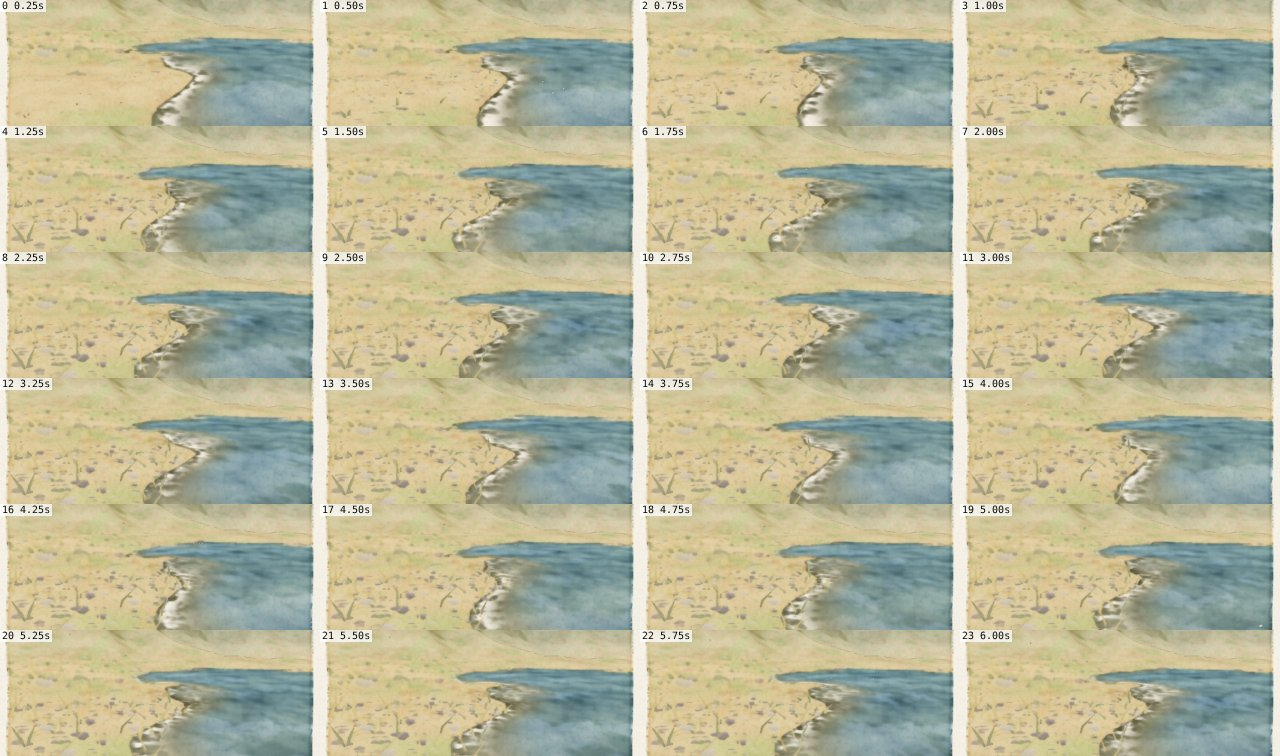
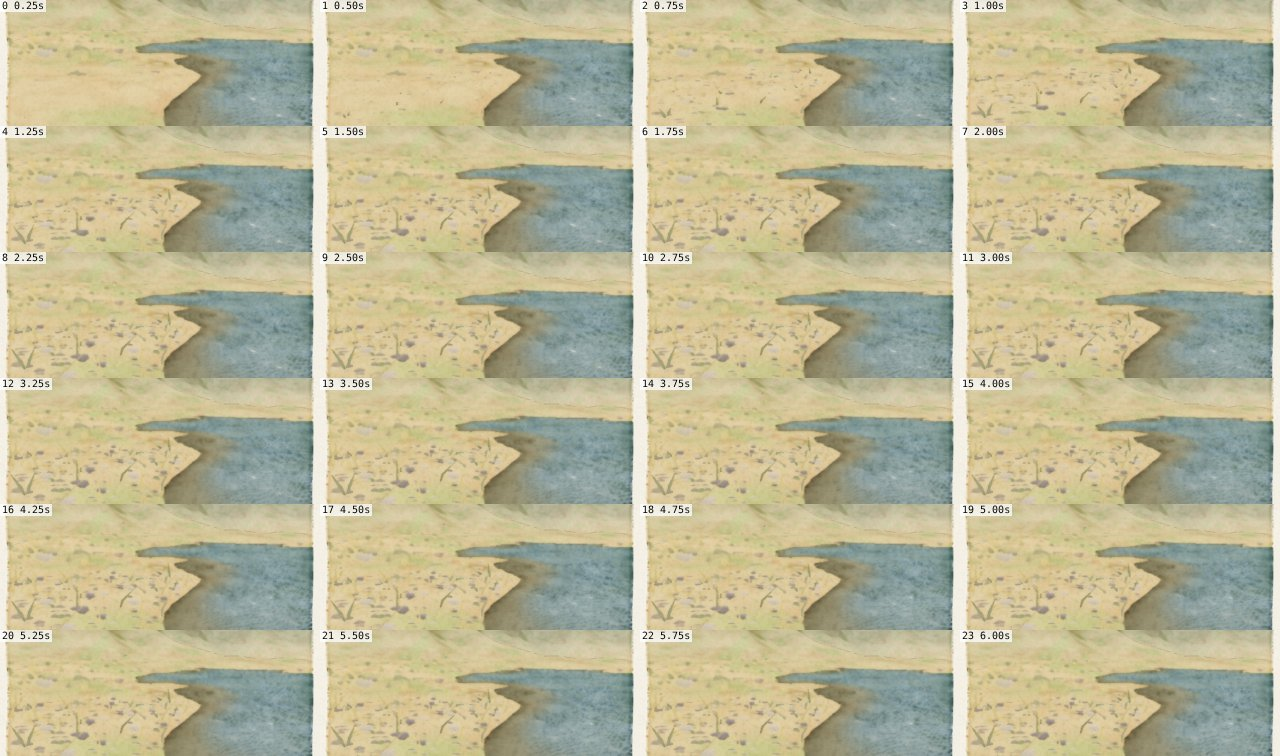
[physics] P16.3 the Moon run at the boulder (ruled: physical, mine). The check was my body model's face brace (P13 legCatch: the legs at the end of their fold, the face takes what the feet cannot carry up it); PILOT's wrapper passes the command through. Measured on PILOT's profile: within the standi

diff --git a/src/physics/explorer.js b/src/physics/explorer.js
@@ -62,6 +62,20 @@ export const EXPLORER_BODY = Object.freeze({
                           // more than that tears the grip off and the body flies
   crestFilter: 0.15,      // (retired in P9: the stroke of the legs does this now; kept, unused)
   crestLaunch: true,      // leave the ground when it falls away faster than gravity (low-g bounding)
+  // THE WAY AHEAD (P16). A face the hips must climb (its top more than the legs' stroke over the ground here, within a
+  // clamber) is crossed in contact only at the pace the hips can be raised onto it and brought down beyond it: within the
+  // 0.3 m measure (never thrown up, the feet never off the far side) about aheadPace / (rise - legFold)^aheadExp (m): on
+  // PILOT's profile (a 1.3 m dome) the fastest pace that needs no brace at the face is 4, 3 and 2.25 to 2.5 m/s for 0.8,
+  // 1.0 and 1.2 m, the same on the Moon, Mars and Earth (the hold's pull, not gravity, sets it): 1.9 / x^0.75 within 5 %,
+  // and the law is taken 8 % under that. A runner sees it coming and sheds the rest with its soles (and the
+  // suit's assist), within the grip it has, from as far as that takes. Until P16 the face itself took it: a run on the
+  // Moon was checked from 5.4 to 2.1 m/s in 0.125 s, by contact. Two samples a step while running (aheadFrom).
+  aheadFrom: 2.5,         // m/s over the ground from which the walker reads the way ahead
+  aheadMax: 12,           // m: the farthest it reads
+  aheadSpan: 1.2,         // m: a face is a rise of more than the stroke within this run (a hill under 60 % is not)
+  aheadMargin: 0.8,       // share of the grip (and the assist) the walker plans to brake with
+  aheadPace: 1.75,        // m/s at a rise of a metre over the fold, in that law (3.85, 2.75, 2.15 m/s for 0.8, 1.0, 1.2 m)
+  aheadExp: 0.75,
   // GAIT (P13). The stride-averaged body above (st.p, st.v: the path, the pace, the stops) is carried by
   // legs that step. Within the stride the hips ride the mechanics of a legged walker:
   //   a WALK is an inverted pendulum: the hips vault over the stance foot on a leg that rolls over the
@@ -136,6 +150,8 @@ export const EXPLORER_BODY_STATE = () => ({
   clamberT: 0,            // s left of looking ahead after the legs last worked
   grip: 0,                // 1 while the limbs hold a feature (taken at a convex edge, kept until standing again)
   paceCap: 1e9,           // m/s: the pace the walker holds so its feet can follow the ground ahead
+  paceAhead: 1e9,         // (P16) m/s: the pace it holds now to meet a face it has seen ahead at the pace it can climb it
+  ahead: null,            // (P16) that face: { x, y, z (unit), rise (m), vc (m/s) } or null
   brace: 0,               // m/s of forward speed lost this step against a face or to a hold
   support: 0,             // m/s^2 of normal support from the ground (0 when floating or airborne)
   impact: 0,              // m/s of the last landing (normal speed), set on the landing step
@@ -195,6 +211,38 @@ function groundAhead(env, px, py, pz, hx, hy, hz, dist) {
   _dir2.x = x / r; _dir2.y = y / r; _dir2.z = z / r;
   return env.sample(_dir2).radius;
 }
+// (P16) THE WAY AHEAD. Running, read the ground `d` ahead along the path (and aheadSpan short of it), d far enough for the
+// soles to brake from this pace; a face the hips must climb (a rise of more than the stroke within aheadSpan, and more
+// than the stroke over the line of the ground being run on, within a clamber) is remembered; the pace held is what still
+// meets it at the pace it can be crossed in contact. aB: the braking the grip and the assist can give (m/s^2).
+function wayAhead(B, env, px, py, pz, h1, sx, sy, sz, vh, gE, aB, T) {
+  const stroke = T.legFold + T.legReach, ab = Math.max(0.3, T.aheadMargin * aB);
+  const r = Math.hypot(px, py, pz) || 1, ux = px / r, uy = py / r, uz = pz / r;
+  let hx = sx, hy = sy, hz = sz; const hu = hx * ux + hy * uy + hz * uz; hx -= hu * ux; hy -= hu * uy; hz -= hu * uz;
+  const hl = Math.hypot(hx, hy, hz);
+  if (!(hl > 1e-9) || !(gE > 0)) { B.paceAhead = 1e9; B.ahead = null; return; }
+  hx /= hl; hy /= hl; hz /= hl;
+  // the face remembered: still ahead and on the path?
+  let A = B.ahead;
+  if (A) { const dx = A.x - ux, dy = A.y - uy, dz = A.z - uz, d = (dx * hx + dy * hy + dz * hz) * r, side = Math.hypot(dx * r - d * hx, dy * r - d * hy, dz * r - d * hz); A.d = d; if (d < -0.5 || side > 1.0) A = B.ahead = null; }
+  // read the way: the far point, and aheadSpan short of it
+  // (read only while running; a face already seen is kept, slow or not, until it is passed or off the path)
+  const d = Math.min(T.aheadMax, vh * vh / (2 * ab)) + T.look;
+  if (vh > T.aheadFrom && d > T.aheadSpan + 0.5) {
+    const hN = groundAhead(env, px, py, pz, hx, hy, hz, d - T.aheadSpan), hF = groundAhead(env, px, py, pz, hx, hy, hz, d);   // (_dir2: the far point)
+    const slope = B.trend > 0 ? B.trend / vh : 0, rise = hF - h1 - slope * d;
+    if (hF - hN > stroke && rise > stroke && hF - h1 <= T.clamber) {
+      const vc = Math.max(0.5, T.aheadPace / Math.pow(Math.max(0.05, rise - T.legFold), T.aheadExp));
+      const cost = (q) => Math.sqrt(q.vc * q.vc + 2 * ab * Math.max(0, q.d - T.look));
+      const N = { x: _dir2.x, y: _dir2.y, z: _dir2.z, rise, vc, d };
+      // (the same face read again a little further on: it is as high as its highest reading; another face: the dearer)
+      if (A && Math.abs(N.d - A.d) < T.aheadSpan) { if (N.vc < A.vc) { A.vc = N.vc; A.rise = N.rise; } }
+      else if (!A || cost(N) < cost(A)) A = B.ahead = N;
+    }
+  }
+  B.paceAhead = A ? Math.sqrt(A.vc * A.vc + 2 * ab * Math.max(0, A.d - T.look)) : 1e9;
+}
+
 // Is there something for the limbs to hold? Yes when the ground `look` ahead (radius hD) lies well below
 // the line the hips are moving on (c: hips less a leg, w: their vertical speed, vh: their speed over the
 // ground): a convex feature at the scale of a limb; and when that ground is within a clamber of the feet.
@@ -491,7 +539,7 @@ function stepOnce(st, cmd, dt, env, T) {
       tx = qx - ux * k; ty = qy - uy * k; tz = qz - uz * k;
       const tl = Math.hypot(tx, ty, tz);
       // LEGS, 2: clambering, the walker holds the pace at which its feet can follow the ground ahead
-      if (tl > 1e-9) { const m = Math.min(qlen, B.paceCap) / tl; tx *= m; ty *= m; tz *= m; }
+      if (tl > 1e-9) { const m = Math.min(qlen, B.paceCap, B.paceAhead >= 0 ? B.paceAhead : 1e9) / tl; tx *= m; ty *= m; tz *= m; }
     }
     // what the legs would like to do: close the velocity error and cancel the outside loads
     let fx = (tx - sx) / T.response - ex, fy = (ty - sy) / T.response - ey, fz = (tz - sz) / T.response - ez;
@@ -672,7 +720,7 @@ function stepOnce(st, cmd, dt, env, T) {
       const rr = Math.max(h1, c1 - reach), vv1 = w1 - su;
       px = _dir.x * rr; py = _dir.y * rr; pz = _dir.z * rr;
       vx = sx + vv1 * ux; vy = sy + vv1 * uy; vz = sz + vv1 * uz;
-      B.hip = 0; B.hipV = 0; B.trend = 0; B.paceCap = 1e9; B.clamberT = 0; B.grip = 0;
+      B.hip = 0; B.hipV = 0; B.trend = 0; B.paceCap = 1e9; B.paceAhead = 1e9; B.ahead = null; B.clamberT = 0; B.grip = 0;
     } else {
       px = _dir.x * h1; py = _dir.y * h1; pz = _dir.z * h1;
       B.hip = clamp(c1 - h1, -fold, reach); B.hipV = w1;
@@ -690,6 +738,8 @@ function stepOnce(st, cmd, dt, env, T) {
           if (B.paceCap < 0.5) B.paceCap = 0.5;
         }
       }
+      // (P16) the way ahead (see EXPLORER_BODY.aheadFrom)
+      wayAhead(B, env, px, py, pz, h1, sx, sy, sz, vh, gE, Math.max(0, hold * support) + (cmd.assistAccel > 0 ? cmd.assistAccel : 0), T);
       // the velocity lies along the ground as the legs carry it (see LEGS, 1) at the new place
       { const l = Math.hypot(n1x, n1y, n1z); if (l > 1e-9) { n1x /= l; n1y /= l; n1z /= l; } else { n1x = _dir.x; n1y = _dir.y; n1z = _dir.z; } }
       const q1 = q === 0 || B.grip ? 0 : 1;
@@ -810,7 +860,7 @@ function stepOnce(st, cmd, dt, env, T) {
       const l1 = (s1.liquidRadius || 0) > s1.radius ? s1.liquidRadius - s1.radius : 0;
       if (clamp01(l1 / T.height) * liq.density / rhoBody < 1) { grounded = true; B.hip = 0; B.hipV = vx * _dir.x + vy * _dir.y + vz * _dir.z + hipIn; }
     }
-    B.support = 0; B.brace = 0; B.paceCap = 1e9; B.clamber01 = 0; B.clamberT = 0;
+    B.support = 0; B.brace = 0; B.paceCap = 1e9; B.paceAhead = 1e9; B.ahead = null; B.clamber01 = 0; B.clamberT = 0;
     if (!grounded) { B.hip = 0; B.hipV = 0; B.trend = 0; B.grip = 0; }
     B.slip01 = grounded ? 0 : B.slip01 * 0.9;
     B.scramble01 = 0;

diff --git a/docs/notes/physics.md b/docs/notes/physics.md
@@ -3,6 +3,116 @@
 Branch: `cosmos` (shared with PAINTER and PILOT, one working tree). Commits: `tools/commit.sh physics`.
 Owner of: `src/physics/**`, `physics-lab.html`, `docs/notes/physics.md`, `docs/shots/physics/**`.
 
+## Hand-over P16 (fourteenth PHYSICS agent; read this block first; P15 and older below hold for everything not named here)
+
+**Where things stand.** Items 1 (import cycles), 2 (the fetch) and 3 (the Moon run at the boulder) are done; no hardening
+finding reached me (item 4); item 5 not started. Commits: `dc4e3f5` (items 1 and 2; most of their files went up first in
+the coordinator's backup `fbd611f`), then item 3 and the strips (the next physics commit). Tests: `node --test
+src/physics/` 275 pass and PILOT's `node --test tests/*.test.mjs` 125 pass on a clean export of `194171b` with my files. Scratch:
+`/home/user/.pc-scratch/physics/p16/` (`ex.sh`: export of HEAD with the working physics over it into `p16/root`;
+`sea.mjs <root> <body> <biome> <t0> <t1> [up]`: the sea state at the lab's shore in Node on PAINTER's world;
+`rose.mjs <root> <body> <biome> <t>`: the fetch by direction at the water point and where the wind comes from;
+`rock.mjs <root> <body> <assist> <height> <pace>`: a run at a boulder on PILOT's profile, the speeds and braces;
+`cycles.mjs`: import cycles; `x6d/`: an export of 6d5c02a for the load test).
+**Next, in order:** (1) the hardening findings as the coordinator sends them; (2) P14 and P13's open items (P13 hand-over,
+"Not done": the stand-in's knee, the storm frame, `tree-gust`, `clamber-walk-moon` not opened; the sea is still one state
+round the focus); (3) the fetch by direction could also turn the waves (a lagoon's chop runs where its fetch is longest,
+not only down the wind); (4) the way ahead reads only along the path: a boulder met side-on at the edge of the path is
+still taken by the face brace (legCatch) as before.
+**API added (additive):** see "Added in P16" in the API section: `physics.water().fetch/.depth`, `fields.water.gauge`,
+`.waterPoint`, `stats.msFetch`, `.fetchSamples`, `FetchGauge`, `FETCH_GAUGE`, `whiteScale`, `WATER.whiteSpeed`,
+`wind.js wakeAt`/`WAKE`, `testworld timing()`; explorer: `st.phys.paceAhead`, `st.phys.ahead`, tuning `aheadFrom`,
+`aheadMax`, `aheadSpan`, `aheadMargin`, `aheadPace`, `aheadExp`; film `clamber-run-moon-long`; probe columns `fetch`, `fdepth`.
+**Behaviour changed without a call changing:** (1) the sea near the focus is raised over the measured fetch and limited
+by the depth along it: lagoons, pools and channels carry a chop or ripples, not the biome's open sea (Neptune's storm
+coast: Hs 2.75 -> 0.21 m; Earth's sea_coast stand in a breeze: 0.64 -> 0.02 m); no swell where the water upwind is under
+600 m; (2) short waves (phase speed under 0.9 m/s, under half a metre long) never show whitecaps; (3) running (over 2.5
+m/s) the explorer reads the ground ahead (two samples a step) and slows with its soles before a face it must clamber, to
+the pace it can cross it at; the face no longer checks it; (4) wall-clock asserts in the physics tests run only under
+PC_TIMING=1.
+
+**1. Import cycles (`wind.js`, `air.js`, `flora.js`, `load.test.mjs`).** `wakeAt` and its two numbers (`WAKE.full` 0.5,
+`WAKE.top` 1.5) live in `wind.js` now; `flora.js` imports it from there, so nothing in the physics imports `air.js` back.
+`air.js` re-exports `wakeAt` (the same function) and keeps `AIR.wakeFull`/`AIR.wakeTop` (the same numbers) and the
+coordinator's lazy `HF0` (it costs nothing and keeps `air.js` safe whatever enters first). `load.test.mjs` (2 tests):
+every `src/physics/**/*.js` is imported as the ENTRY of a fresh Node process (`three` resolved to `vendor/three` as the
+pages' import maps do; `painted-lab.js` reads `location` in its body, so it passes when the only error is a browser
+global missing in its own body, which means all it imports loaded); and no static import cycle among the 49 modules the
+physics reaches (`ALLOWED_CYCLES` is empty). On an export of `6d5c02a` the first fails three ways (`flora.glsl.js`,
+`flora.js`, `painted-lab.js`: "Cannot access 'FLORA' before initialization") and the second names
+`air.js -> flora.js -> air.js`; on the head with my files both pass (about 8 s).
+
+**2. The fetch, measured (`water.js` `FetchGauge`, `windSea`, `whiteScale`; `index.js`).** As ruled: the sea state comes
+from the water that is there.
+- *The gauge*: from a water point (the focus where it stands in liquid at least 1 m deep, else the nearest such node of
+  the 256 m wind grid, else the deepest liquid about) five radials (0, +-6, +-12 degrees about upwind: the Shore
+  Protection Manual 1984 takes the mean of radials over 24 degrees) run upwind over the world's liquid until dry ground
+  or the cap (the point's biome fetch, 2500 m on sea coasts); steps of 16 m growing by a tenth of the distance gone (39
+  samples to 2500 m; the shore placed within 5 % of its distance, 2.5 % in the height); fetch = the mean of the radials;
+  depth = the mean depth over their wet length. Cached: a measurement holds within max(48 m, a tenth of its fetch) and the
+  same sixteenth of the compass (24 kept); a few samples a frame (2/4/6 by tier, x9 while nothing is known on arrival,
+  time-rationed by `QUALITY.sampleMs`); while it runs the last finished value is held, and on arrival the radials so far
+  (a lower bound that only grows). Upwind is against the way the sea runs (it follows the wind over 40 s).
+- *Depth-limited growth* (`windSea`): the SPM 1984 shallow-water curves (Bretschneider) as the ratio of each to its own
+  deep-water form, so deep water is exactly as before: 3.4 m of water under 30 m/s over 30 km holds 1.1 m where deep water
+  raises 2.7 m. Until now only the breaking cap (0.55 of the depth) knew the bottom.
+- *No whitecaps on ripples* (`whiteScale`): waves under about a metre long break without trapping air (microscale
+  breaking; Banner and Phillips 1974, Jessup, Zappa and Yeh 1997): none under 0.9 m/s of phase speed, all above 1.5.
+- *Numbers* (Node, `p16/sea.mjs`, PAINTER's world at the lab's places; `p16/before-*.txt`, `after-*.txt`):
+
+  | place | wind | fetch | depth | Hs | length | swell | cover |
+  |---|---|---|---|---|---|---|---|
+  | Neptune storm_seas, 44-50 s, before | 30 m/s from the E | 2500 (biome) | grid's deepest | 2.75 m | 10.7 m | 1.73 m (open) | 15 % |
+  | the same, after | the same | 133 m (radials 168 136 136 120 104) | 3.3 m | 0.21 m | 1.5 m | none | 15 % (a steep, white chop) |
+  | Earth sea_coast, 1150 s, before | 8.8 m/s from the ESE (offshore) | 2500 | | 0.64 m | 4.8 m | 0.40 m | 1 % |
+  | the same, after | the same | 24 m (a pool 1.7 m deep) | 0.4 m | 0.02 m | 0.2 m | none | 0 |
+- *Strips* (from `p16/root`, `kits=painter`; before = P15's, kept as `-before`), all OPENED:
+  `motion-sea-out-neptune-before`: a tongue of leopard foam runs up and drains, reach 1.5 to 7.0 m, spray to 482 drops;
+  `motion-sea-out-neptune` (after): the lagoon's surface is a fine-grained chop with small white flecks; the waterline
+  barely moves (reach -0.03 to 0.44 m), a thin warm edge along it, no foam tongue, 1 to 2 spray drops.
+  `motion-shore-earth-breeze-before`: a white foam rim along the edge, reach 0.5 to 1.9 m; `motion-shore-earth-breeze`
+  (after): a still pool, no rim, reach -0.01 to 0.06 m (fetch 18 m at the lab's focus), no spray.
+- *Cost*: the gauge spends at most its ration (24 samples a frame on arrival in the tests, 2 to 6 after) once per place
+  and wind sector; then nothing. **For PAINTER**: what changed on Neptune's coast, and what would keep a storm's surf
+  there, is the first entry of "For PAINTER".
+
+**3. The Moon run at the boulder (`explorer.js`, mine).** The check was the clamber's face contact in my body model
+(P13's `legCatch` brace: the legs at the end of their fold, the face takes the speed the feet cannot carry up it, 0.5 m/s
+a step); PILOT's wrapper passes the command through unchanged. What the ruling meets, measured (`p16/rock.mjs`, PILOT's
+`scrambleSample` dome, 1.3 m across): **within the standing rule (feet never 0.3 m off, never thrown up 0.3 m) a face
+the hips must climb can be crossed in contact only at a pace the hips can be raised onto it and brought down beyond it**:
+constant-pace runs that need no brace at the face reach 4, 3 and 2.25 to 2.5 m/s for boulders of 0.8, 1.0 and 1.2 m, the
+same on the Moon, Mars and Earth (the hold's pull, not gravity, sets it). So a lunar run at 6 m/s cannot lose only m g h
+(2.2 J/kg for 1 m, which would leave 5.8 m/s) without a bound over the top, which the rule forbids; it must shed about
+14 J/kg. What changed is WHERE and HOW: the runner reads the way ahead (`wayAhead`: one point as far ahead as its soles
+need to slow from this pace, and one 1.2 m short of it; a rise of more than the legs' stroke within that 1.2 m is a face;
+a hill under 60 % is not), plans the crossing pace by the law above (8 % under the measured edge) and brakes to it with
+its soles and the suit's assist, within the grip there, from as far out as that takes; the face then costs the climb.
+Before and after (1 m boulder, run at 7.4 m/s, Node, no assist as in the lab):
+
+  | world | before: least speed over it, brace | after: speed at the face, least over it, brace, worst step of the approach |
+  |---|---|---|
+  | Moon (g 2.2) | 2.33 m/s, 0.5 m/s a step at the face | 2.90, 2.78, none, 0.03 m/s (1.8 m/s^2) |
+  | Mars | 2.61 | 3.10, 2.75, none, 0.05 |
+  | Earth | 3.17 | 3.32, 2.76, none, 0.10 |
+
+  Still in contact everywhere (feet 0.000 m off). The run from 6 m/s on the Moon now slows over about 2 s and 8 m before
+  the boulder instead of in 0.13 s at its face. Boulders of 0.8 and 1.3 m: no brace at the face either (crossing 3.0 to
+  3.9 and 2.0 m/s). Tests: one new (`P16 the way ahead`: no brace at the face on the Moon, Mars, Earth; the approach's
+  worst step within grip plus assist; in contact; 2.2 to 3.3 m/s at the face; a 20 % and a 40 % hill never read as a
+  face); one changed with its reason (`one the hips must climb costs pace: more in low gravity`: the crossing pace is now
+  the same on every world within 10 %, measured, so it reads "no faster on the Moon").
+- *Strips* (from `p16/root` = a clean export of `194171b` with my files, `kits=painter`), all OPENED:
+  `motion-clamber-run-moon-before` (P15's): at the face the runner is checked, 5.41 -> 2.11 m/s between 0.625 and 0.75 s,
+  then climbs, crosses and slowly runs on (4.6 m/s at 3 s). `motion-clamber-run-moon` (after, the same subject): it
+  arrives already easing, 3.55 -> 2.84 m/s over the first 0.75 s (about 1 m/s^2: the lab gives no assist), climbs from
+  0.88 to 1.25 s at 2.78 -> 2.76 m/s (no check), is over the top at 1.25 s and down by 1.6 s, 4.57 m/s at 3 s.
+  `motion-clamber-run-moon-long` (new: from 10 m out, wider): the face is seen 9.1 m out at 4.4 m/s; the pace falls
+  smoothly 4.67 -> 2.76 m/s over 1.9 s, the clamber at 2.71 m/s, over at 2.75 s, on at 4.06 m/s at 4 s. The figure is
+  small in that frame but the even approach reads. If the coordinator would rather the run kept its pace over clamberable
+  boulders in low gravity (the energy-only cost), that needs the 0.3 m rule relaxed for a clamber (a bound over the top):
+  a decision, not something I took.
+
 ## Hand-over P15 (thirteenth PHYSICS agent; read this block first; P14 and older below hold for everything not named here)
 
 **Where things stand.** All four P15 items done and committed (`6f9fdd8` leaves, then the shore, the crowns' shelter,
@@ -1426,6 +1536,26 @@ takes about 30 s to pass, so even Neptune's weather arrives rather than switches
 
 ## For PILOT: wiring, in order
 
+### P16, first (fourteenth PHYSICS agent)
+- **Nothing to wire.** Three behaviours change under the same calls:
+  1. *The explorer reads the way ahead* (`src/physics/explorer.js` `wayAhead`; the coordinator's ruling on the Moon run
+     at the boulder): running over 2.5 m/s, two more `env.sample` calls a step (one point as far ahead as the soles need to
+     slow, one 1.2 m short of it); a face it must clamber (a rise of more than the legs' 0.73 m stroke within 1.2 m, up to
+     a clamber) is remembered (`st.phys.ahead`) and the pace is held (`st.phys.paceAhead`, used like `paceCap`) so that the
+     walker arrives at the pace it can cross it at in contact (2.75 m/s for 1 m), braking with its soles and your
+     `cmd.assistAccel` within the grip. The face no longer checks the run (Moon, 1 m boulder at 7.4 m/s: before, 5.4 ->
+     2.1 m/s in 0.125 s at the face; after, about 1.8 m/s^2 over 2 s before it, nothing at the face, 2.8 m/s over it). The
+     feet stay on the ground as before (0.000 m off in my runs). Hills under 60 % are never read as faces (tested). Your
+     `tests/boulderrun.mjs` on the Moon should now show a lower pace just before the taller boulders and no check at
+     them; the ruled measure (0.3 m) is unchanged. If you want the walker blind to faces (feel), `aheadFrom` in
+     `EXPLORER_BODY` set very high turns it off (then the P13 face brace takes the speed, as before).
+  2. *The sea near the focus* is raised over the fetch measured upwind and limited by the depth (`physics.water(...).fetch`,
+     `.depth` say what it was raised over); lagoons and pools are calm or choppy, not the biome's sea. Audio: the surf and
+     spume of `here.blown` follow (Neptune's storm beach: surf 1 -> 0, spume 1 -> 0, `p16` strips' numbers).
+  3. `physics.stats.msFetch` and `.fetchSamples` count the gauge (also inside `stats.samples`).
+- Your guard on stub fall-backs and my `src/physics/load.test.mjs` (every physics module loads as the entry of a fresh
+  process, no import cycle) together cover the incident of 6d5c02a.
+
 ### P15, first (thirteenth PHYSICS agent)
 - Nothing to wire for the leaves (the kits carry them; `here.blown.leaves`, `.litter`, `.leafStock01` are new numbers if
   audio wants the rustle of a flock).
@@ -1963,6 +2093,33 @@ What follows is what a physicist would object to, and it is all in the assists.
     it wants a wake and a bob from `physics.fields.water`, which the ship does not read.
 
 ## For PAINTER: everything you need, on its own (current at the commit that carries this note)
+
+### P16, first (fourteenth PHYSICS agent): the sea now comes from the water that is there (a world decision for you)
+
+Nothing to wire: the same uniforms carry a different sea. The coordinator ruled that the sea state comes from the fetch
+measured upwind over real water, capped by the biome's fetch, and limited by the depth. **What changed on Neptune's
+storm_seas coast** (the stand `getStandPure('neptune','storm_seas')`, where the lab and PILOT's tour arrive):
+- The storm wind there blows from the east (in 0 to 9000 s, 137 of 150 samples over 3 m/s came from E or ENE, 13 from
+  ESE). Upwind of the beach lies a lagoon: 0.3 m deep 20 m out, 2.8 m at 40 m, 3.4 m at 80 m, dry from about 120 to 170 m
+  out. So the storm's sea there is a steep, white chop 0.2 m high and 1.5 m long, not 2.8 m of surf; the waterline moves
+  0.4 m up the beach at most (was 1.5 to 7 m); no swell; spray 1 or 2 drops (was hundreds). Strips:
+  `docs/shots/physics/motion-sea-out-neptune-before.jpg` and `motion-sea-out-neptune.jpg`.
+- The fetch by direction at the water point (14 m east, 16 m south of the stand), `p16/rose-neptune.txt`: from E 133 m,
+  ENE 101, NE 98, NNE 75, N to SW 11 to 40, SSW 75, S 166, **SSE 571, SE 628, ESE 928** (single radials to 1800 and 2000 m).
+  The open water lies to the south-east, but the storms come from the east.
+- **If that coast should carry a storm's surf** (your call: the brief's "ultramarine storm seas with basalt stacks"), it
+  must face open water upwind, that is to the east, at least 2 km of it (the swell comes in fully from 2000 m) and some
+  depth: at 30 m/s on Neptune the sea over 2500 m of water is 1.0 m of wind sea plus a swell of 0.8 m (3.4 m deep), 1.3 m
+  (10 m deep), 1.6 m (20 m deep), 1.7 m (deep): about 2.6 m together at 20 m depth. Ways: open the lagoon's eastern bar
+  (the land 120 to 170 m east of the beach) to the sea beyond; or move the stand to a beach of storm_seas whose open side
+  faces east; or deepen the lagoon (depth alone does not help much while the fetch is 133 m: Hs 0.21 m at any depth).
+- **Earth's sea_coast stand** has the same kind of answer: it stands by a pool or channel no more than 50 m across in any
+  direction (`p16/rose-earth.txt`: fetch 8 to 50 m all round, 0.4 to 1.7 m deep), the open sea begins 320 to 640 m to the
+  west (dry between), and the wind comes from the ESE (145 of 148 samples from ESE, E or SE): offshore. So the beach is a still pool in a
+  fresh breeze (Hs 0.02 m, no foam rim; strips `motion-shore-earth-breeze-before`/`motion-shore-earth-breeze`). A beach
+  facing east onto open water would have waves and run-up; on this one the open sea's waves run away from the land.
+- Small waves no longer whiten: whitecaps need waves over about a metre long (phase speed over 0.9 to 1.5 m/s), so a pond
+  in a breeze is ripples without foam (`uPhysWaterSea.w` is 0 there).
 
 ### P15, first (thirteenth PHYSICS agent): leaves
 
@@ -2752,6 +2909,16 @@ Example: `node tools/shot.mjs "/physics-lab.html?scene=ship&fixed=1&fast=3" out.
     unbounded: the feel of a turn is PILOT's.
 32. **(P6) The weather enters over the surface it meets**: the ground, or the liquid standing
     over it at the focus.
+33. **(P16) The sea is raised over the water that is there** (the coordinator's ruling): the fetch measured upwind
+    from a water point over the world's liquid (the mean of five radials over 24 degrees, SPM 1984), capped by the
+    biome's fetch, and the waves limited by the mean depth along it. The biome's fetch is only how far the open water
+    runs beyond what is measured.
+34. **(P16) No import cycles in the physics** (held by `load.test.mjs`): a module that reads another's export at load
+    time inside a cycle breaks for some entry orders, and the browser's order is not the tests'.
+35. **(P16) A face the explorer must clamber is seen coming.** Within the 0.3 m measure the pace over it is bounded by
+    the hips (about 2.75 m/s for 1 m on any world), so the run's speed above that is shed by the soles, within the grip,
+    before the face, not by the face. A bound that kept the run's pace (the energy of the climb only) would break the
+    measure: the coordinator's to allow, not mine.
 
 ## Needs from the others
 
